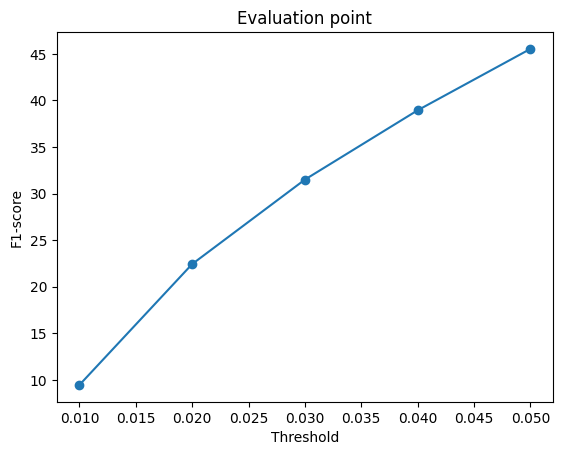
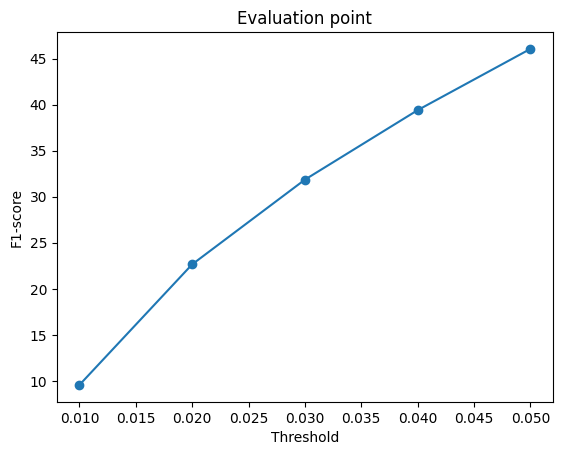
changes - point works

diff --git a/HW2/model.py b/HW2/model.py
@@ -22,23 +22,50 @@ class SingleViewto3D(nn.Module):
             # Output: b x 32 x 32 x 32
             pass
             # TODO:
-            # self.decoder =             
+            # self.decoder =  
+            self.layer0 = torch.nn.Sequential(
+                torch.nn.Linear(512, 2048)
+            )
+            self.layer1 = torch.nn.Sequential(
+                torch.nn.ConvTranspose3d(256, 128, kernel_size=4, stride=2, bias=False, padding=1),
+                torch.nn.ReLU()
+            )
+            self.layer2 = torch.nn.Sequential(
+                torch.nn.ConvTranspose3d(128, 64, kernel_size=4, stride=2, bias=False, padding=1),
+                torch.nn.ReLU()
+            )
+            self.layer3 = torch.nn.Sequential(
+                torch.nn.ConvTranspose3d(64, 32, kernel_size=4, stride=2, bias=False, padding=1),
+                torch.nn.ReLU()
+            )
+            self.layer4 = torch.nn.Sequential(
+                torch.nn.ConvTranspose3d(32, 8, kernel_size=4, stride=2, bias=False, padding=1),
+                torch.nn.ReLU()
+            )
+            self.layer5 = torch.nn.Sequential(
+                torch.nn.ConvTranspose3d(8, 1, kernel_size=1, bias=False),
+                torch.nn.Sigmoid()
+            )
+            self.decoder = torch.nn.Sequential(
+                self.layer0,
+                self.layer1,
+                self.layer2,
+                self.layer3,
+                self.layer4,
+                self.layer5
+            )         
         elif args.type == "point":
             # Input: b x 512
             # Output: b x args.n_points x 3  
             self.n_point = args.n_points
             # TODO:
             self.decoder = nn.Sequential(
-                nn.Linear(512, 1024),
-                nn.BatchNorm1d(1024),
+                nn.Linear(512, 2048),
                 nn.ReLU(),
-                nn.Linear(1024, 1024),
-                nn.BatchNorm1d(1024),
+                nn.Linear(2048, args.n_points),
                 nn.ReLU(),
-                nn.Linear(1024, 2048),
-                nn.BatchNorm1d(2048),
-                nn.ReLU(),
-                nn.Linear(2048, args.n_points * 3)
+                nn.Linear(args.n_points, args.n_points * 3),
+                nn.Tanh()
             )
         elif args.type == "mesh":
             # Input: b x 512
@@ -47,18 +74,11 @@ class SingleViewto3D(nn.Module):
             mesh_pred = ico_sphere(4, self.device)
             self.mesh_pred = pytorch3d.structures.Meshes(mesh_pred.verts_list()*args.batch_size, mesh_pred.faces_list()*args.batch_size)
             # TODO:
+            n_verts = self.mesh_pred.verts_packed().shape[0]
             self.decoder = nn.Sequential(
-                nn.Linear(512, 1024),
-                nn.BatchNorm1d(1024),
-                nn.ReLU(),
-                nn.Linear(1024, 1024),
-                nn.BatchNorm1d(1024),
-                nn.ReLU(),
-                nn.Linear(1024, 2048),
-                nn.BatchNorm1d(2048),
-                nn.ReLU(),
-                nn.Linear(2048, args.n_points * 3)
-            )          
+                nn.Linear(512, n_verts*3),
+                nn.Tanh()
+            )  
 
     def forward(self, images, args):
         results = dict()
@@ -77,18 +97,28 @@ class SingleViewto3D(nn.Module):
         # call decoder
         if args.type == "vox":
             # TODO:
-            # voxels_pred =             
+            # voxels_pred = 
+            x = self.layer0(encoded_feat)
+            x = x.view(-1, 256, 2, 2, 2)
+            x = self.layer1(x)
+            x = self.layer2(x)
+            x = self.layer3(x)
+            x = self.layer4(x)
+            voxels_pred = self.layer5(x)   
+            # voxels_pred = self.decoder(encoded_feat).view(-1, 32, 32, 32)         
             return voxels_pred
 
         elif args.type == "point":
             # TODO:
-            pointclouds_pred = self.decoder(encoded_feat).reshape([B, self.n_point, 3])             
+            pointclouds_pred = self.decoder(encoded_feat).view(-1, self.n_point, 3)             
             return pointclouds_pred
 
         elif args.type == "mesh":
             # TODO:
             # deform_vertices_pred =             
-            deform_vertices_pred = self.decoder(encoded_feat).reshape(self.mesh_pred.verts_packed().shape)
-            mesh_pred = self.mesh_pred.offset_verts(deform_vertices_pred.reshape([-1,3]))
+            deform_vertices_pred = self.decoder(encoded_feat)
+            n_verts = self.mesh_pred.verts_packed().shape[0]
+            deform_vertices_pred = deform_vertices_pred.view(-1, n_verts, 3)
+            mesh_pred = self.mesh_pred.offset_verts(deform_vertices_pred)
             return  mesh_pred          
 

diff --git a/HW2/train_model.py b/HW2/train_model.py
@@ -9,6 +9,11 @@ from pytorch3d.datasets.r2n2.utils import collate_batched_R2N2
 from pytorch3d.ops import sample_points_from_meshes
 from r2n2_custom import R2N2
 
+from torch.utils.tensorboard import SummaryWriter
+
+from datetime import datetime
+
+import os
 
 def get_args_parser():
     parser = argparse.ArgumentParser("Singleto3D", add_help=False)
@@ -29,6 +34,7 @@ def get_args_parser():
     parser.add_argument('--load_feat', action='store_true') 
     parser.add_argument("--device", default="cuda", type=str)
     parser.add_argument("--cuda", default=0, type=int)
+    parser.add_argument("--seed", default=42, type=int)
     return parser
 
 
@@ -96,19 +102,28 @@ def train_model(args):
     start_iter = 0
     start_time = time.time()
 
+    # scheduler = torch.optim.lr_scheduler.CosineAnnealingWarmRestarts(optimizer, T_0 = 500, T_mult=1, eta_min=0, last_epoch=-1, verbose='deprecated')
+
     if args.load_checkpoint:
         checkpoint = torch.load(f"checkpoint_{args.type}.pth")
         model.load_state_dict(checkpoint["model_state_dict"])
         optimizer.load_state_dict(checkpoint["optimizer_state_dict"])
         start_iter = checkpoint["step"]
         print(f"Succesfully loaded iter {start_iter}")
-
+    
+    # Initialize weights
+    # print("Initializing weights")
+    # for layer in model.decoder:
+    #    if layer.__class__.__name__.startswith('Linear'):
+    #        torch.nn.init.kaiming_uniform_(layer.weight, a=0.01, mode='fan_in', nonlinearity='relu')
+    
     print("Starting training !")
     for step in range(start_iter, args.max_iter):
         iter_start_time = time.time()
 
         if step % len(train_loader) == 0:  # restart after one epoch
-            train_loader = iter(loader)
+            print("Starting Epoch [{}]".format(step // len(train_loader)))
+            train_loader = iter(loader)        
 
         read_start_time = time.time()
 
@@ -129,6 +144,7 @@ def train_model(args):
         iter_time = time.time() - iter_start_time
 
         loss_vis = loss.cpu().item()
+        writer.add_scalar('Loss/train', loss_vis, step)
 
         if (step % args.save_freq) == 0 and step > 0:
             print(f"Saving checkpoint at step {step}")
@@ -140,13 +156,17 @@ def train_model(args):
                 },
                 f"checkpoint_{args.type}.pth",
             )
+
+            if not os.path.exists(f'checkpoints/checkpoints_{args.type}_{dt}'):
+                os.makedirs(f'checkpoints/checkpoints_{args.type}_{dt}')
+
             torch.save(
                 {
                     "step": step,
                     "model_state_dict": model.state_dict(),
                     "optimizer_state_dict": optimizer.state_dict(),
                 },
-                f"checkpoints/checkpoint_{args.type}_{step}.pth",
+                f"checkpoints/checkpoints_{args.type}_{dt}/checkpoint_{args.type}_{step}.pth",
             )
         print(
             "[%4d/%4d]; ttime: %.0f (%.2f, %.2f); loss: %.3f"
@@ -160,5 +180,11 @@ if __name__ == "__main__":
     parser = argparse.ArgumentParser("Singleto3D", parents=[get_args_parser()])
     args = parser.parse_args()
 
-    torch.cuda.set_device(args.cuda)
+    # torch.cuda.set_device(args.cuda)
+
+    torch.manual_seed(args.seed)
+
+    dt = datetime.now().strftime('%Y-%m-%d_%H-%M-%S') 
+    writer = SummaryWriter(log_dir=f'./logs/train_{args.type}_{dt}')
+
     train_model(args)

diff --git a/HW2/eval_model.py b/HW2/eval_model.py
@@ -12,6 +12,13 @@ import mcubes
 import utils_vox
 import matplotlib.pyplot as plt 
 
+from torch.utils.tensorboard import SummaryWriter
+
+from datetime import datetime
+dt = datetime.now().strftime('%Y-%m-%d_%H-%M-%S') 
+writer = SummaryWriter(log_dir='./logs/train_' + dt)
+
+
 def get_args_parser():
     parser = argparse.ArgumentParser('Singleto3D', add_help=False)
     parser.add_argument('--arch', default='resnet18', type=str)
@@ -159,7 +166,7 @@ def evaluate_model(args):
         # TODO:
         # if (step % args.vis_freq) == 0:
         #     # visualization block
-        #     #  rend = 
+        #     rend = 
         #     plt.imsave(f'vis/{step}_{args.type}.png', rend)
       
 
@@ -173,7 +180,8 @@ def evaluate_model(args):
         avg_f1_score.append(torch.tensor([metrics["F1@%f" % t] for t in thresholds]))
 
         print("[%4d/%4d]; ttime: %.0f (%.2f, %.2f); F1@0.05: %.3f; Avg F1@0.05: %.3f" % (step, max_iter, total_time, read_time, iter_time, f1_05, torch.tensor(avg_f1_score_05).mean()))
-    
+
+
 
     avg_f1_score = torch.stack(avg_f1_score).mean(0)
 

diff --git a/HW2/losses.py b/HW2/losses.py
@@ -23,9 +23,15 @@ def chamfer_loss(point_cloud_src,point_cloud_tgt):
 	dists_src_to_tgt = pytorch3d.ops.knn_points(point_cloud_src, point_cloud_tgt, K=1).dists
 	dists_tgt_to_src = pytorch3d.ops.knn_points(point_cloud_tgt, point_cloud_src, K=1).dists
 	
-	loss_chamfer = torch.mean(dists_src_to_tgt) + torch.mean(dists_tgt_to_src)
+	# loss_chamfer = torch.mean(dists_src_to_tgt) + torch.mean(dists_tgt_to_src)
+	# loss_chamfer = loss_chamfer/2
+
+	loss_chamfer = torch.sum(dists_src_to_tgt) / point_cloud_src.shape[0] + torch.sum(dists_tgt_to_src) / point_cloud_tgt.shape[0]
 	loss_chamfer = loss_chamfer/2
 
+	loss_chamfer_2 = torch.sum((dists_src_to_tgt + dists_tgt_to_src)) / point_cloud_src.shape[0]
+	# print("Chamfer Loss 1: ", loss_chamfer)
+	
 	return loss_chamfer
 
 def smoothness_loss(mesh_src):
